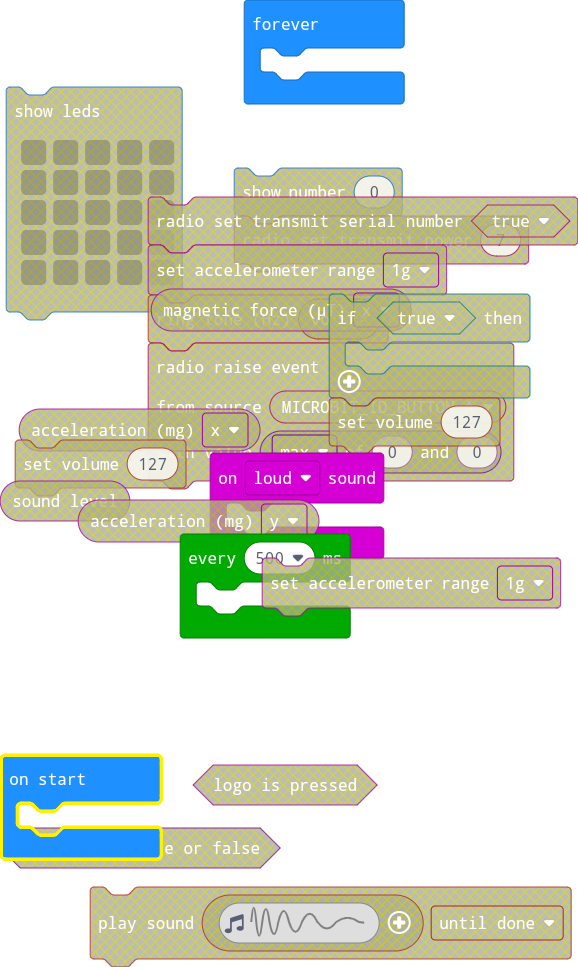
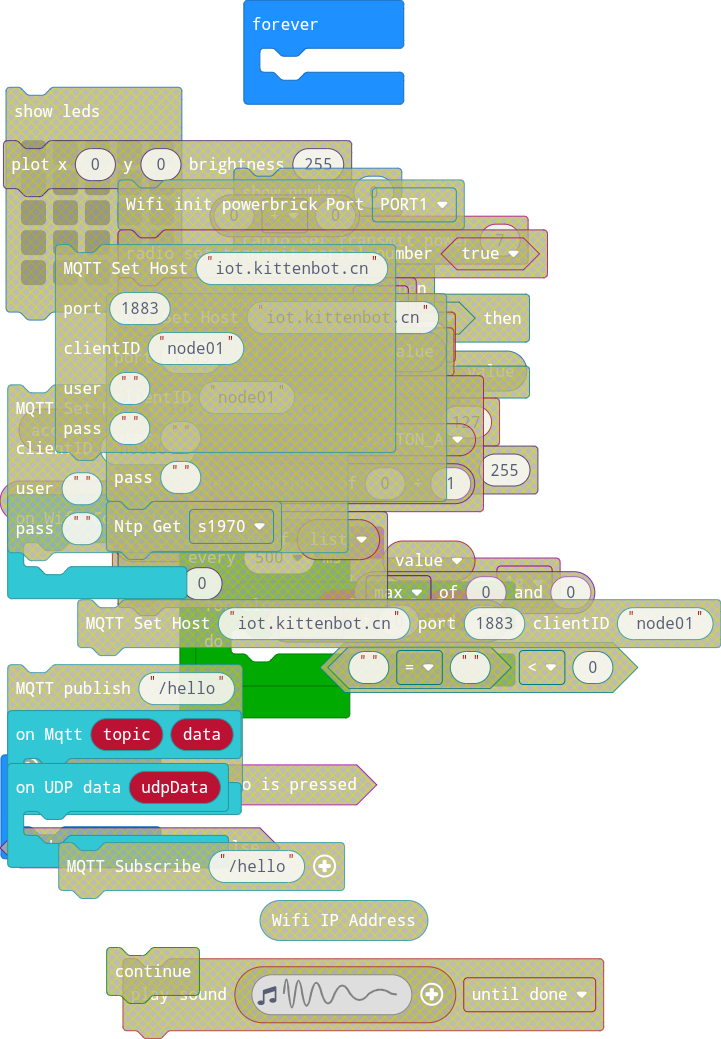
Update pxt.json, main.blocks, main.ts, main.py

diff --git a/main.ts b/main.ts
@@ -1,9 +1,21 @@
-input.onSound(DetectedSound.Loud, function () {
-	
+kittenwifi.on_wifi_connected(function on_wifi_connected() {
+    
 })
-loops.everyInterval(500, function () {
-	
+kittenwifi.udp_ondata(function on_udp_ondata(udpData: string) {
+    
 })
-basic.forever(function () {
-	
+input.onSound(DetectedSound.Loud, function on_sound_loud() {
+    
+})
+kittenwifi.on_mqtt_topic_data(function on_mqtt_topic_data(topic: string, data: string) {
+    
+})
+loops.everyInterval(500, function on_every_interval() {
+    let list2 : number[] = []
+    for (let value of list2) {
+        
+    }
+})
+basic.forever(function on_forever() {
+    
 })

diff --git a/main.py b/main.py
@@ -1,9 +1,23 @@
+def on_wifi_connected():
+    pass
+kittenwifi.on_wifi_connected(on_wifi_connected)
+
+def on_udp_ondata(udpData):
+    pass
+kittenwifi.udp_ondata(on_udp_ondata)
+
 def on_sound_loud():
     pass
 input.on_sound(DetectedSound.LOUD, on_sound_loud)
 
-def on_every_interval():
+def on_mqtt_topic_data(topic, data):
     pass
+kittenwifi.on_mqtt_topic_data(on_mqtt_topic_data)
+
+def on_every_interval():
+    list2: List[number] = []
+    for value in list2:
+        pass
 loops.every_interval(500, on_every_interval)
 
 def on_forever():
